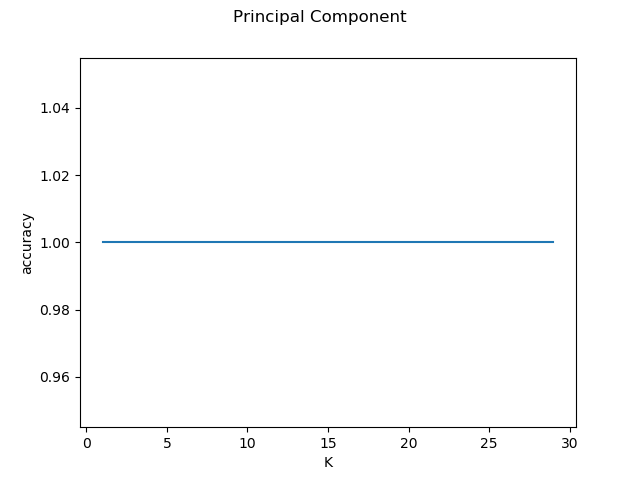
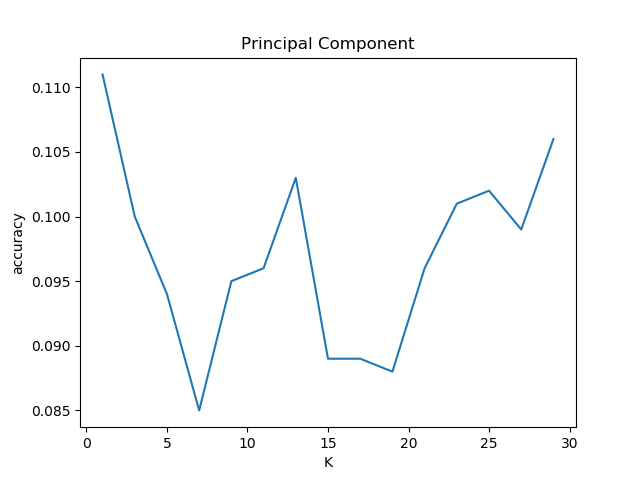
refactor of doom

diff --git a/mnistClassifierKnn.py b/mnistClassifierKnn.py
@@ -18,22 +18,24 @@ import cv2
 import sklearn
 from classes.knn_lib import *
 from classes.utils import *
-
 import pandas as pd
+
+mnistDataAmount = 5000
+testPercentage = 0.2
 
 # Any results you write to the current directory are saved as output.
 train = pd.read_csv('data/train.csv')
-submission = pd.read_csv('data/test.csv')
 
-y_train = train['label']
-X_train = train.drop('label', axis=1)
-X_submission = submission
+mnist_labels = train['label']
+mnist_data = train.drop('label', axis=1)
+mnist_labels.head()
 
-y_train.head()
-X_submission.head()
-y_train = y_train.to_numpy()
-X_train = X_train.to_numpy()
+mnist_labels = mnist_labels.to_numpy()[:mnistDataAmount]
+mnist_data = mnist_data.to_numpy()[:mnistDataAmount]
 
+train_data_raw, test_data_raw, train_label_raw, test_label_raw = train_test_split(mnist_data, mnist_labels, test_size=testPercentage)
+
+'''
 # Plot data for pca
 pca = PCA(n_components=2)
 pca_result = pca.fit_transform(X_train)
@@ -52,49 +54,35 @@ plt.colorbar()
 plt.title("Random Transformer")
 plt.show()
 
-
-# plot data from tsme
+# plot data from tsne
 tsne_result = TSNE(n_components=2).fit_transform(X_train[:1000, :])
 plt.scatter(tsne_result[:4000, 0], tsne_result[:1000, 1], c=y_train[:1000], edgecolor='none', alpha=0.5,
             cmap=plt.get_cmap('jet', 10), s=5)
 plt.colorbar()
 plt.title("t-sne")
 plt.show()
-
-
+'''
+print("Creating PCA Representation")
 pca = PCA(n_components=50)
-X_train_transformed = pca.fit_transform(X_train)
-X_submission_transformed = pca.transform(X_submission)
+data_pca = pca.fit_transform(mnist_data)
+train_data_pca, test_data_pca, train_label_pca, test_label_pca = train_test_split(data_pca, mnist_labels, test_size=testPercentage, random_state=13)
 
+print("Creating RP Representation")
 transformer = random_projection.GaussianRandomProjection(n_components=50)
-X_train_transformer = transformer.fit_transform(X_train)
-X_test_transformer = transformer.fit_transform(X_submission)
+data_rp = transformer.fit_transform(mnist_data)
+train_data_rp, test_data_rp, train_label_rp, test_label_rp = train_test_split(data_rp, mnist_labels, test_size=testPercentage, random_state=13)
 
+
+'''print("Creating TSNE Representation")
 tsne = TSNE(n_components=2)
-X_train_tsne = tsne.fit_transform(X_train)
-X_submission_tsne = tsne.fit_transform(X_submission)
+data_tsne = tsne.fit_transform(mnist_data)
+train_data_tsne, test_data_tsne, train_label_tsne, test_label_tsne = train_test_split(data_tsne, mnist_labels, test_size=testPercentage)
+'''
 
-X_train_pca, X_test_pca, y_train_pca, y_test_pca = train_test_split(
-    X_train_transformed, y_train, test_size=0.05, random_state=13)
-X_train_raw, X_test_raw, y_train_raw, y_test_raw = train_test_split(X_train, y_train, test_size=0.05, random_state=13)
-X_train_rp, X_test_rp, y_train_rp, y_test_rp = train_test_split(X_train_transformer, y_train, test_size=0.05, random_state=13)
-X_train_tsne, X_test_tsne, y_train_tnse, y_test_tnse = train_test_split(X_train_tsne, y_train, test_size=0.05, random_state=13)
-
-
-print("X_train_pca shape: ", X_train_pca.shape)
-print("X_test_pca shape: ", X_test_pca.shape)
-
-print("X_train_raw shape: ", X_train_raw.shape)
-print("X_test_raw shape: ", X_test_raw.shape)
-
-trainSize = 35910
-testSize = 1890
-
-(k_rp, percent) = Utils.find_k(X_train_rp, X_test_rp, y_train_rp, y_test_rp, trainSize, testSize, "Random Projection")
-(k_pca, percent) = Utils.find_k(X_train_pca, X_test_pca, y_train_pca, y_test_pca, trainSize, testSize, "Principal Component")
-(k_tsne, percent) = Utils.find_k(X_train_tsne, X_test_tsne, y_train_tnse, y_train_tnse, trainSize, testSize, "T-SNE")
-#(k_raw, percent) = Utils.find_k(X_train_raw, X_test_raw, y_train_raw, y_test_raw, trainSize, valSize, "Raw MNIST Data")
-
+(k_pca, percent) = Utils.find_k(train_data_pca, train_label_raw, test_data_pca, test_label_raw, "Principal Component")
+(k_rp, percent) = Utils.find_k(train_data_rp, train_label_raw, test_data_rp, test_label_raw, "Random Projection")
+#(k_tsne, percent) = Utils.find_k(train_data_tsne, train_label_raw, test_data_tsne, test_label_raw, "T-SNE")
+(k_raw, percent) = Utils.find_k(train_data_raw, train_label_raw, test_data_raw, test_label_raw, "Raw MNIST Data")
 
 '''
 # fit knn with pca

diff --git a/classes/utils.py b/classes/utils.py
@@ -15,7 +15,7 @@ class Utils():
         plt.savefig('./images/kAccuracies_k1_37800samples_sklearn.png')
         plt.show()
 
-    def find_k(train, val, labelsTrain, labelsVal, trainSize, valSize, description):
+    def find_k(trainData, trainLabels, testData, testLabels, description):
         # initialize the values of k for our k-Nearest Neighbor classifier along with the
         # list of accuracies for each value of k
         kVals = range(1, 30, 2)
@@ -30,12 +30,12 @@ class Utils():
             # our knn implementation
             #model = knn(k=k)
             #print("{} Fitting model with k={}. ".format(datetime.datetime.now(), k))
-            model.fit(train[:trainSize, :], labelsTrain[:trainSize])
+            model.fit(trainData, trainLabels)
             #print("{} Fitted model with k={}. ".format(datetime.datetime.now(), k))
 
             # evaluate the model and update the accuracies list
             #print("{} Evaluating model with k={} and a validation data set of size = {}. ".format(datetime.datetime.now(), k, valSize))
-            score = model.score(val[:valSize, :], labelsVal[:valSize])
+            score = model.score(testData, testLabels)
             #print("{} Evaluated model with k={} and a validation data set of size = {}. ".format(datetime.datetime.now(), k, valSize))
             print("{} {}: k={}, accuracy={}%".format(datetime.datetime.now(), description,k, score * 100))
             accuracies.append(score)
